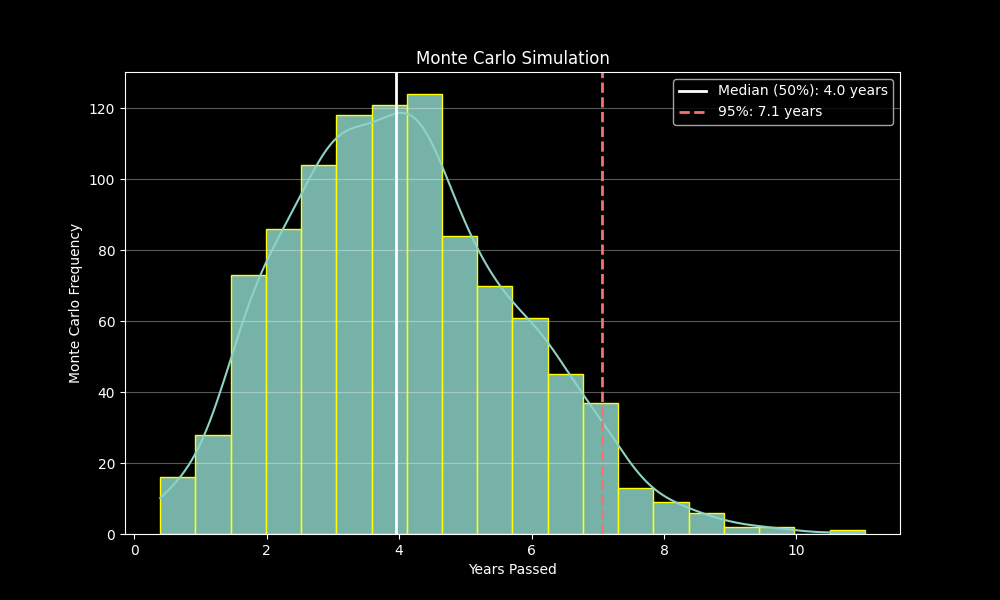
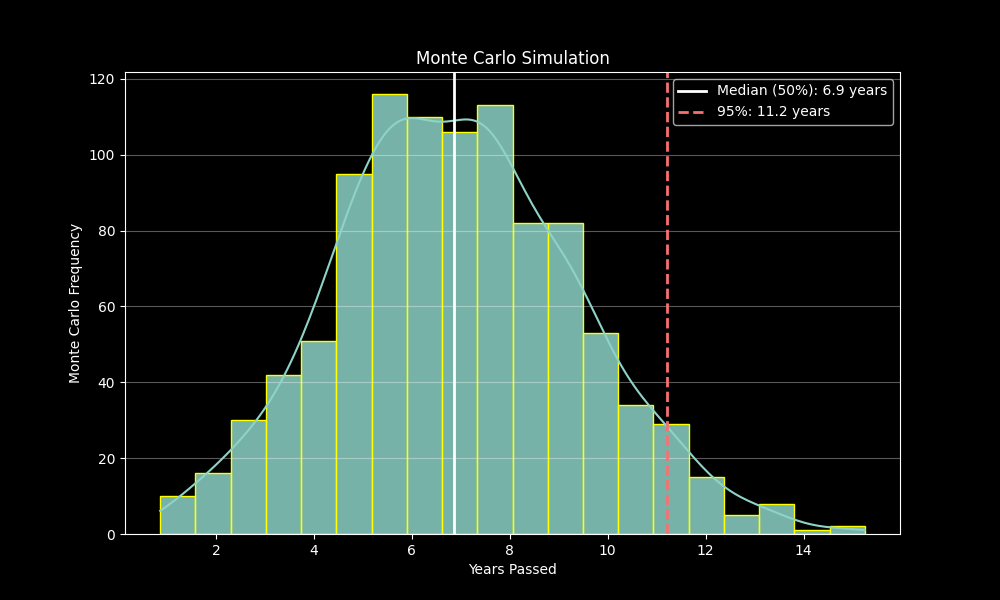
checking extra dates

diff --git a/scripts/main.py b/scripts/main.py
@@ -16,7 +16,7 @@ def main():
     )
 
     results = sim.monte_carlo()
-    sim.calculate_probability(results, 5)
+    sim.calculate_probability(results, 2.5)
     if len(results) > 0 and np.sum(results) == 0:
         print("Date already current. 0 wait time")
     else:

diff --git a/scripts/macros.py b/scripts/macros.py
@@ -3,7 +3,7 @@ import os
 # --- Simulation Configuration ---
 COUNTRY = "India"
 PREFERENCE = "EB2"
-TARGET_DATE = "2015-08-15"
+TARGET_DATE = "2016-08-15"
 VISA_BULLETIN_DATE = "2013-07-15"
 SIMS = 1000
 N_YEARS = 100
